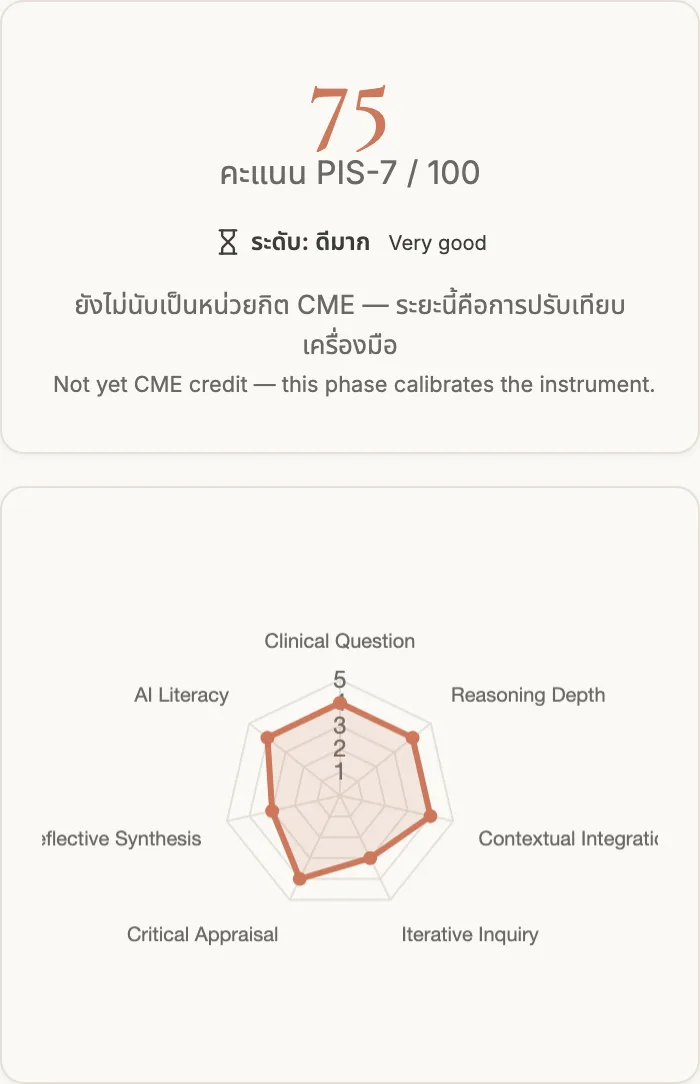
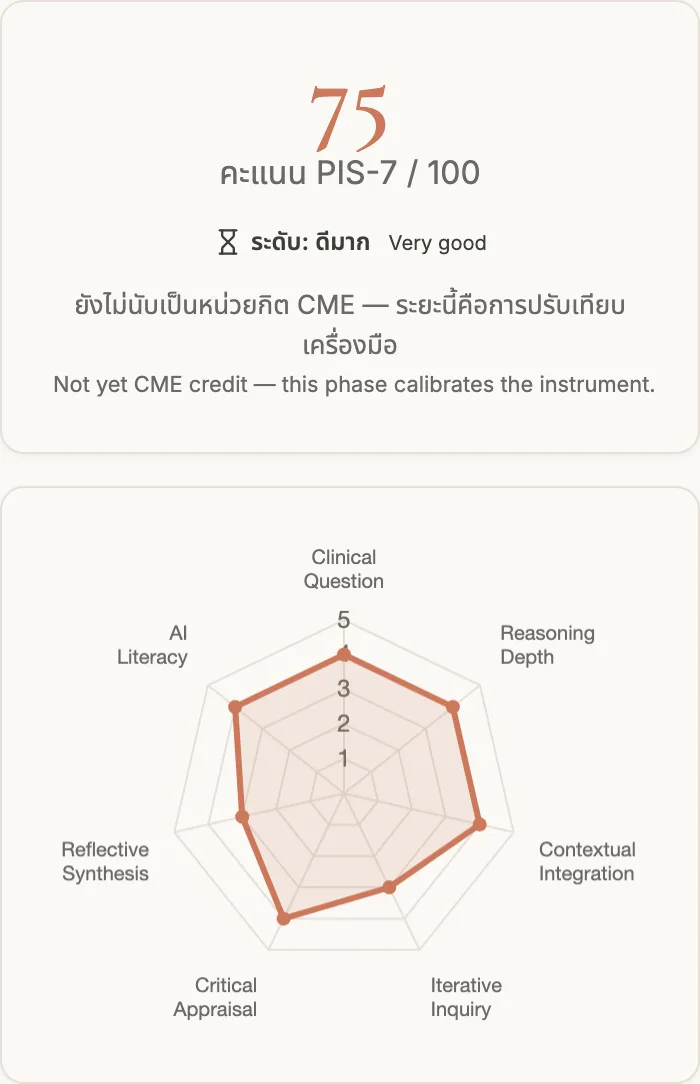
ple-result: wrap radar labels on phones; capture refuses clipped labels (#188)
At 390px the one-line radar labels ran past the canvas ("eflective
Synthesis", "Contextual Integratio"), and Chart.js's fit does not pull them
back in. Under data-mobile each label now wraps to two lines.

capture.mjs measures every Chart.js point label against the canvas and
refuses a frame with one outside it; it refused both mobile radar frames
before this fix. All 12 landing frames are recaptured on the self-hosted
fonts from #200.

diff --git a/physician-ui/public/ple-result.html b/physician-ui/public/ple-result.html
@@ -60,10 +60,13 @@
       if (!el) return;
       if (radarChart) radarChart.destroy();
       const coral = cssVar('--coral'), grid = cssVar('--hairline'), text = cssVar('--muted');
+      // At phone width one-line labels overrun the canvas edge ("eflective Synthesis"), and Chart.js's
+      // fit does not pull them back in, so each label wraps to two lines there.
+      const narrow = document.documentElement.hasAttribute('data-mobile');
       radarChart = new Chart(el, {
         type: 'radar',
         data: {
-          labels: DOMAIN_LABELS.map(l => l.split(' ').slice(0,2).join(' ')),
+          labels: DOMAIN_LABELS.map(l => { const w = l.split(' ').slice(0,2); return narrow ? w : w.join(' '); }),
           datasets: [{ label: 'PIS-7 Score', data: lastScores, backgroundColor: coral + '26', borderColor: coral, pointBackgroundColor: coral }],
         },
         options: { responsive: true, maintainAspectRatio: false, scales: { r: { min: 0, max: 5, ticks: { stepSize: 1, color: text, backdropColor: 'transparent' }, grid: { color: grid }, angleLines: { color: grid }, pointLabels: { color: text } } }, plugins: { legend: { display: false } } },
